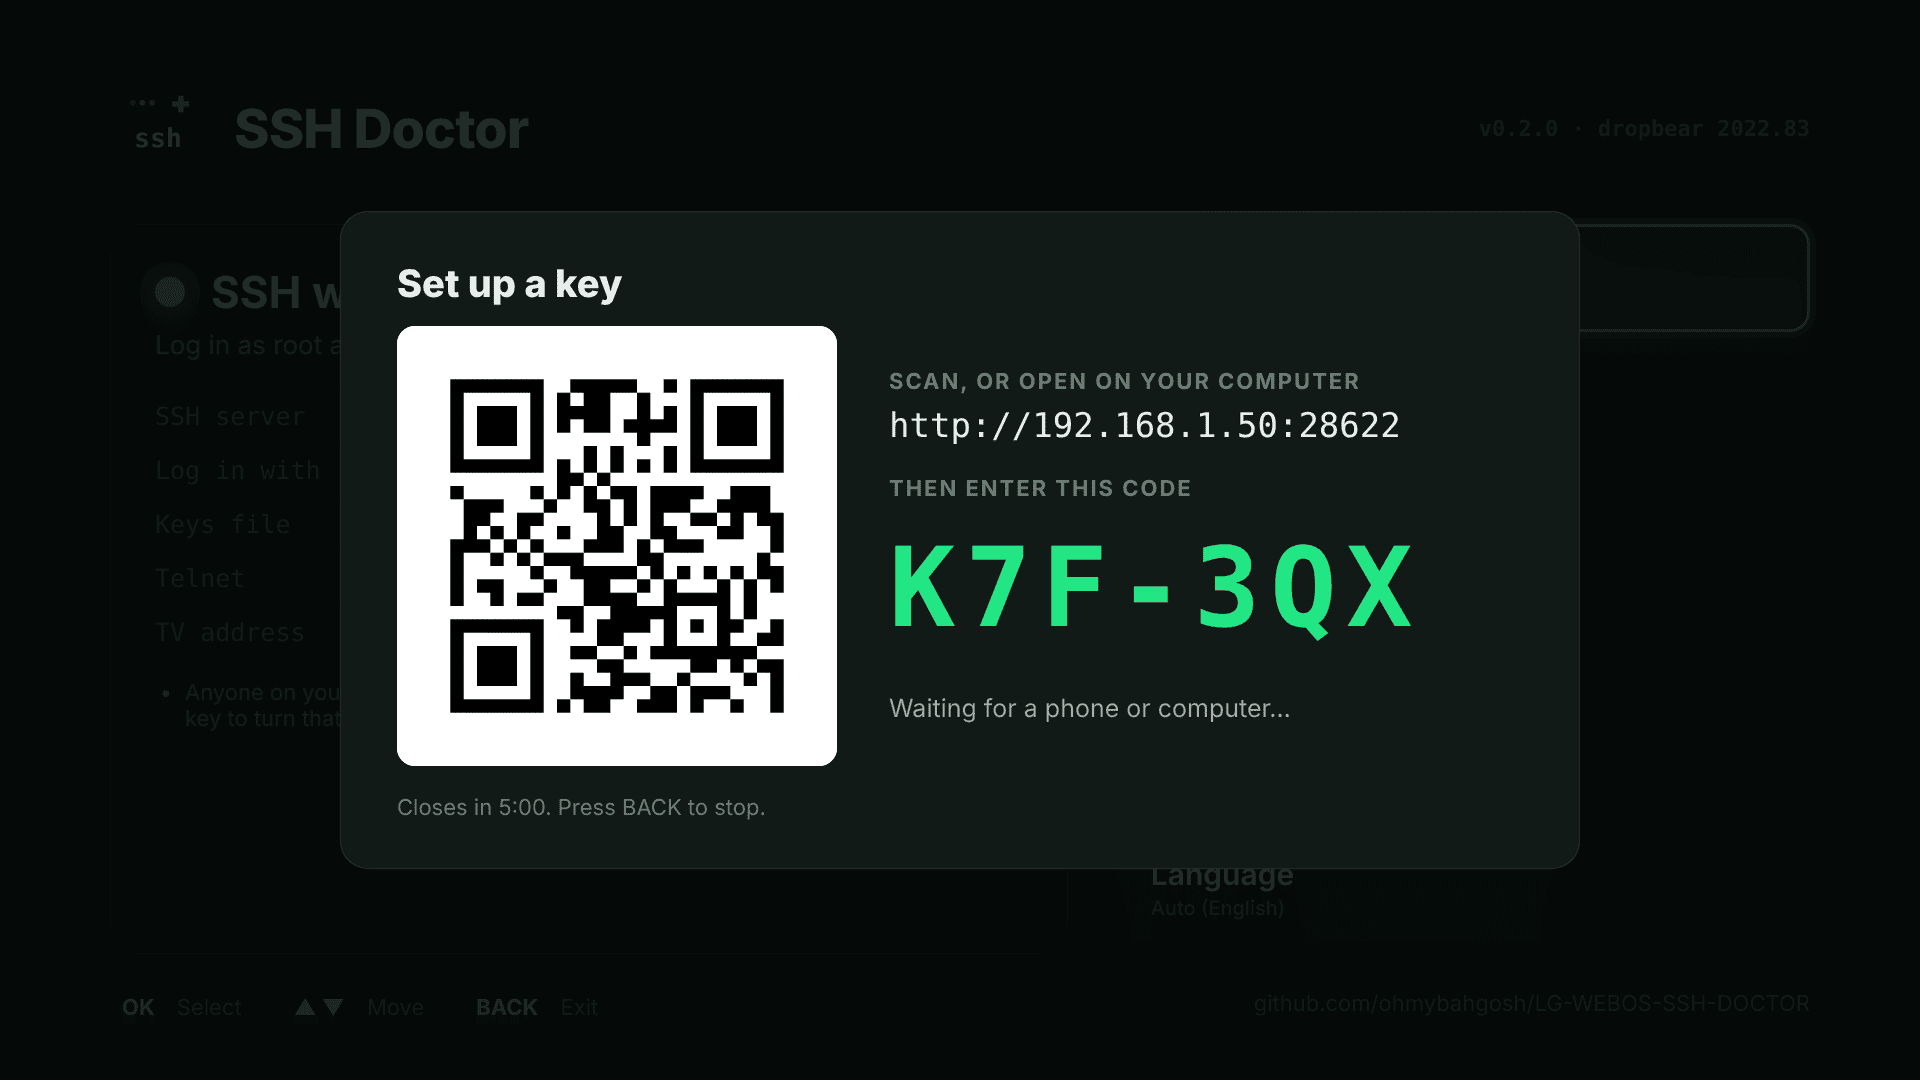
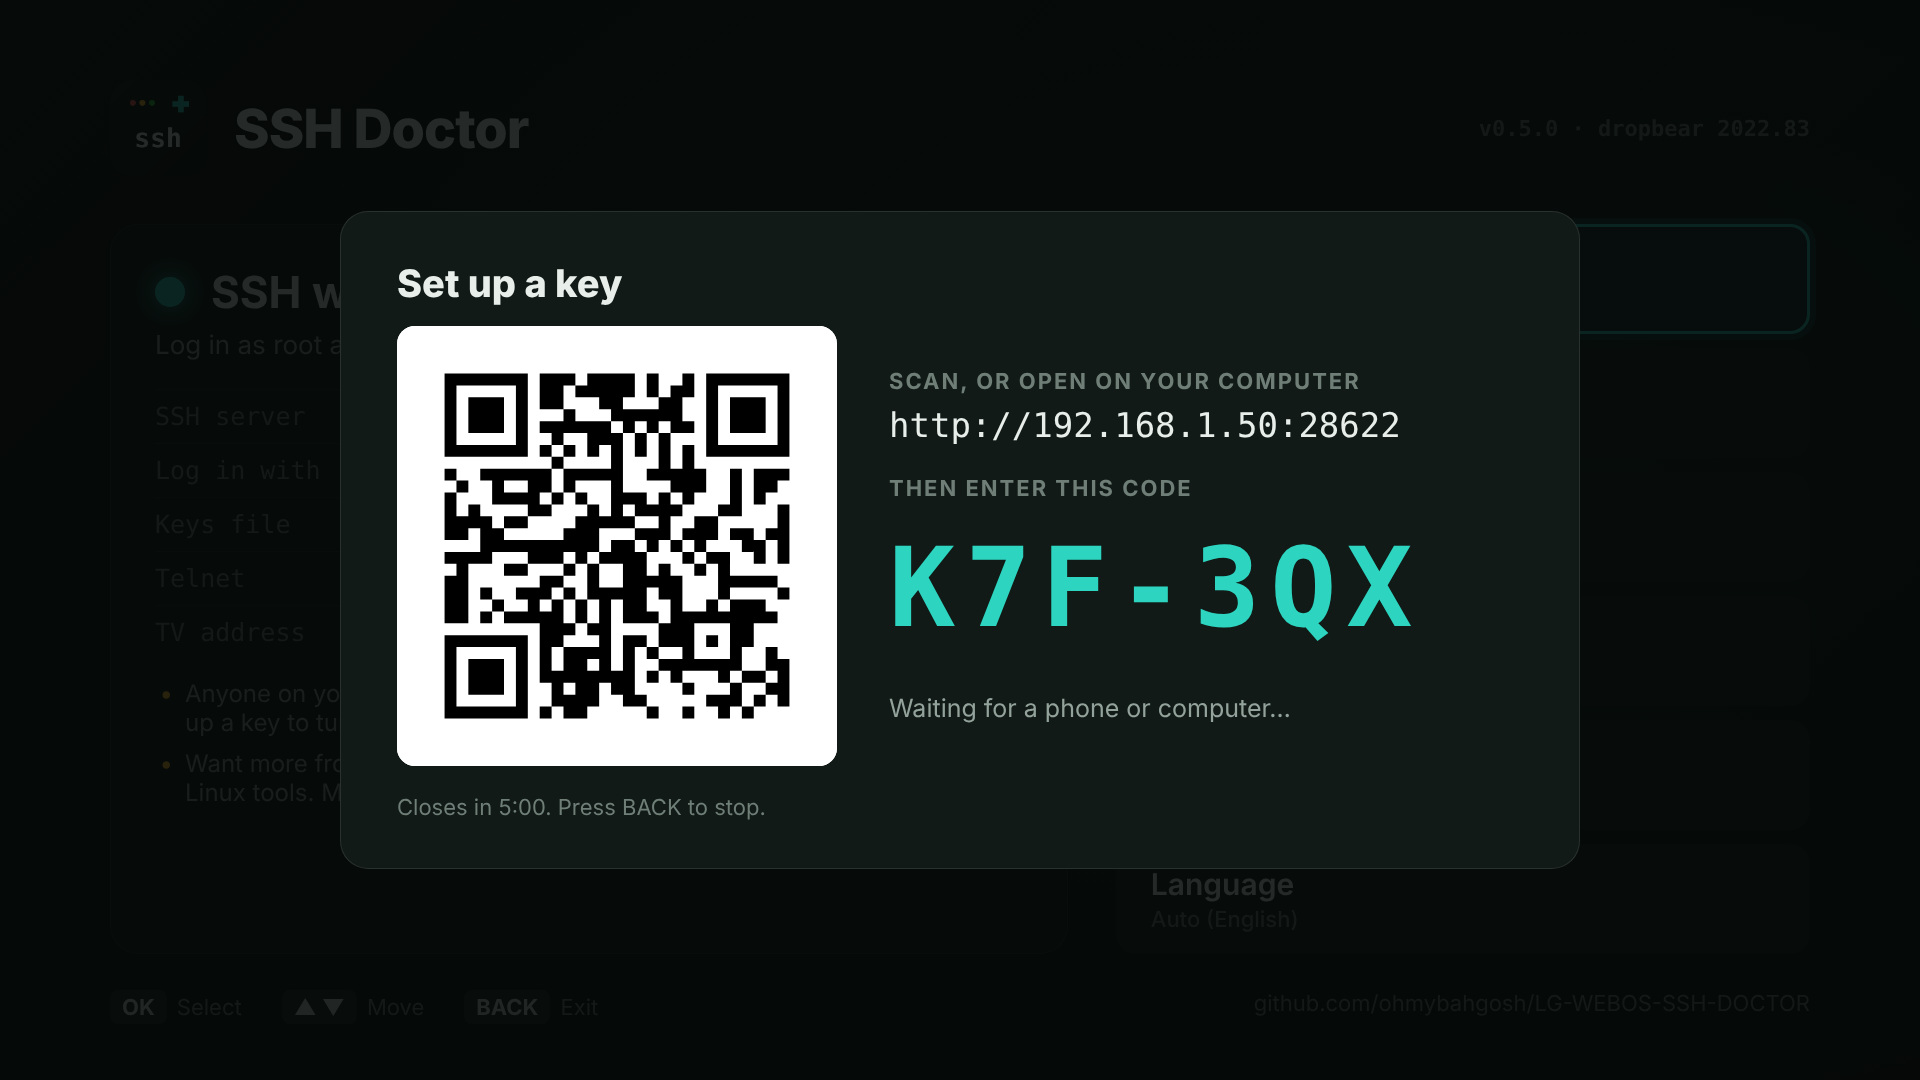
Release 0.5.0, with screenshots in the new color
Version 0.5.0 and its changelog date, with what was tested on a real TV.
README screenshots made again from the browser demo in teal, plus How to
log in with its QR code, the copy page on a phone, File transfer and the
update offer.  update-check and changes in the telnet list.

Claude-Session: https://claude.ai/code/session_01GQv7kLtzA735H79ikQWGNF

Changed region(s): [[0.2188, 0.3361, 0.4375, 0.6722], [0.4688, 0.4889, 0.75, 0.5806], [0.5938, 0.7944, 0.6875, 0.825]]

diff --git a/scripts/screenshots/demo.js b/scripts/screenshots/demo.js
@@ -16,7 +16,7 @@
         { type: 'ssh-rsa', fp: 'SHA256:0+Bbg/DcPTyzN9cG2jg00lDOV26ns23I1ilRaGycXM8' }
     ];
     var base = {
-        version: '0.4.0', hbc: true, sshEnabled: true, running: true, listening: true, dropbear: '2022.83',
+        version: '0.5.0', hbc: true, sshEnabled: true, running: true, listening: true, dropbear: '2022.83',
         password: 'none', keys: 1, keyFile: true, keyProblems: '', permProblems: '', telnet: true, telnetRunning: true,
         failsafe: false, legacyRsa: false, ips: ['192.168.1.50'], hostKeys: host, findings: [],
         port: 22, portOwner: 'hbc', keysOnly: false, sftp: true, failedLogins: 0,
@@ -54,7 +54,7 @@
                 { protocol: 'TCP', external: 23, internal: 23, client: '192.168.1.50', enabled: true, remote: '', description: '' }] },
             findings: [f('telnet-exposed'), f('ssh-exposed'), f('boot-started', 'tip'), f('password-default', 'tip')] },
         // A newer version is out
-        update: { update: { current: '0.4.0', latest: '0.5.0', newer: true, ipkUrl: 'https://github.com/x.ipk', sha256: 'ab', notes: '### Added\n\n- **Copy it on your phone or computer.**  How to log in shows a QR code.\n- Update from the app.\n\n### Changed\n\n- **A new accent color,** teal.', published: '2026-11-13T12:00:00Z' },
+        update: { version: '0.4.0', update: { current: '0.4.0', latest: '0.5.0', newer: true, ipkUrl: 'https://github.com/x.ipk', sha256: 'ab', notes: '### Added\n\n- **Copy it on your phone or computer.**  How to log in shows a QR code.\n- Update from the app.\n\n### Changed\n\n- **A new accent color,** teal.', published: '2026-11-13T12:00:00Z' },
             findings: [f('update-available', 'tip')] }
     };
     var st = {};
@@ -88,13 +88,13 @@
             failedFrom: st.failedLogins ? [{ ip: '192.168.1.77', n: st.failedLogins }] : [],
             lastUsed: { 'SHA256:m3MvfV9IuUH4vKFN5CRBQGhIDOEanmNp29OKzXEOpRI': '2026-11-08T12:31:05Z' } }),
         'hostkeys --json': JSON.stringify(host.map(function (h) { return { type: h.type, fp: h.fp, line: h.type + ' AAAA' }; })),
-        'report': 'LG webOS SSH Doctor 0.4.0 report\nwebOS: 9.2.0\nKernel: 5.4.268\nHomebrew Channel: installed, SSH switch yes, telnet yes, failsafe no\ndropbear: 2022.83, running yes, port 22, owner hbc\nOptions: wanted -R, running -R\nLogin: password none, keys 1, keys only no\nFindings: \nLogins in the log: 4 logins, 0 failed tries',
+        'report': 'LG webOS SSH Doctor 0.5.0 report\nwebOS: 9.2.0\nKernel: 5.4.268\nHomebrew Channel: installed, SSH switch yes, telnet yes, failsafe no\ndropbear: 2022.83, running yes, port 22, owner hbc\nOptions: wanted -R, running -R\nLogin: password none, keys 1, keys only no\nFindings: \nLogins in the log: 4 logins, 0 failed tries',
         'pair-reject': '{"state":"rejected"}',
         'exposure --json': JSON.stringify(st.exposure || { router: 'found', name: 'ASUS GT-AXE16000', mappings: [], exposed: [] }),
-        'kit-list --json': JSON.stringify([{ name: '20261109-071500', saved: '2026-11-09T07:15:00', version: '0.4.0', keys: 2, hostKeys: 3, settings: true, password: true }]),
+        'kit-list --json': JSON.stringify([{ name: '20261109-071500', saved: '2026-11-09T07:15:00', version: '0.5.0', keys: 2, hostKeys: 3, settings: true, password: true }]),
         'kit-save': 'Saved to /tmp/usb/sda/sda1/ssh-doctor-kit/20261109-071500\nIt has the TV\'s private SSH keys in it, so keep the drive somewhere safe.',
         'kit-restore \'20261109-071500\'': 'Backed up /home/root/.ssh/authorized_keys to /home/root/.ssh/authorized_keys.ssh-doctor-20261109-071600\nPut back the keys file: 2 keys.\nBacked up the TV\'s SSH keys to /var/lib/webosbrew/sshd.ssh-doctor-20261109-071600\nPut back the TV\'s SSH keys, so computers that logged in before don\'t warn.\nPut back the SSH settings.\nPut back your own password.',
-        'update-check': JSON.stringify(st.update || { current: '0.4.0', latest: '0.4.0', newer: false, notes: '' }),
+        'update-check': JSON.stringify(st.update || { current: '0.5.0', latest: '0.5.0', newer: false, notes: '' }),
         'update-install': '{"state":"starting","version":"0.5.0","error":""}',
         'update-status': '{"state":"installing","version":"0.5.0","error":""}',
         'exposure-close': 'Took the forwards off the router.\nThe router doesn\'t forward SSH or telnet to this TV any more.'

diff --git a/README.md b/README.md
@@ -104,6 +104,10 @@ After a key is added, the pairing page also offers a ready-made `~/.ssh/config` 
 
 **Copy it on your phone or computer.**  **How to log in**, **Report for getting help** and the TV's key fingerprints each show a QR code beside them.  Scan it and a page opens on your phone with everything ready to copy, one tap each: the login command for Mac, Linux, Windows, PuTTY or SFTP, an **Open in an SSH app** link for Termius and the like, the TV's fingerprints, the `ssh-keygen -R` line for a changed host key, an SSH config, the keys that can log in, and the report with links to open a bug report.  On a computer, type the address and the code instead.  It's read only, works on several devices at once, and stops when you close that screen on the TV.  The QR code on the pairing screen carries its code too, so scanning connects straight away.
 
+<p><img src="assets/screenshots/tv-howto.png" width="70%" alt="How to log in on the TV, with a QR code to copy it on a phone"> <img src="assets/screenshots/info-phone.png" width="24%" alt="The copy page on a phone: the login command, an SSH config and the TV's known_hosts lines, each with a Copy button"></p>
+
+<p><img src="assets/screenshots/tv-sftp.png" width="49%" alt="File transfer (SFTP): the host, port and user, whether to use your key or password, and where WinSCP, FileZilla and Cyberduck take a key"> <img src="assets/screenshots/tv-update.png" width="49%" alt="The main screen offering Update to v0.5.0"></p>
+
 ## What it will never do
 
 Touch system partitions, change the Homebrew Channel's own files, change another SSH server than the Homebrew Channel's, turn telnet off unless you ask, or send your keys or password anywhere.  It warns before anything that would turn password login off, because adding the first key disables `alpine` at the next boot, and that catches a lot of people out.
@@ -130,6 +134,8 @@ sh ssh-doctor.sh set-keys-only on        # or off; also: set-keepalive on|off
 sh ssh-doctor.sh set-password '$6$...'   # a hash, e.g. from: openssl passwd -6
 sh ssh-doctor.sh reset-settings          # back to the Homebrew Channel's defaults
 sh ssh-doctor.sh logins        # recent logins and failed tries
+sh ssh-doctor.sh update-check  # a newer release?  update-install gets it
+sh ssh-doctor.sh changes       # what changed in this version
 sh ssh-doctor.sh report        # a report for asking for help
 ```
 

diff --git a/CHANGELOG.md b/CHANGELOG.md
@@ -2,7 +2,7 @@
 
 All notable changes to LG webOS SSH Doctor.  Versions follow [semantic versioning](https://semver.org/).
 
-## [Unreleased]
+## [0.5.0] - 2026-11-12
 
 ### Added
 
@@ -16,6 +16,8 @@ All notable changes to LG webOS SSH Doctor.  Versions follow [semantic versionin
 - **The TV's address is the main connection's:** the interface with the default route through a gateway comes first, so a wired eth0 shows instead of Wi-Fi kept as a backup.  A 169.254 address (no DHCP answer) is left out.
 - **Bigger text in the pop-ups and menus,** easier to read from the couch on any size of TV: tables like SSH servers on this TV and Login history, menu hints, the findings on the main screen, and the code boxes.
 - **A new accent color,** teal instead of green, so SSH Doctor doesn't look the same as LG-USB-2-ETH0 next to it.  The icon's plus sign too.
+
+Tested on a real TV (LG C2, webOS 25): a full update from the app (against a stand-in release server: about 2 seconds to install, then the app opened again on what changed), a password set from the phone page and from the TV's keyboard that still worked after a restart, the copy page on a phone, the file transfer hints, the main connection's address with eth0 and Wi-Fi both up, and every pop-up's text size.
 
 ## [0.4.0] - 2026-11-12
 
